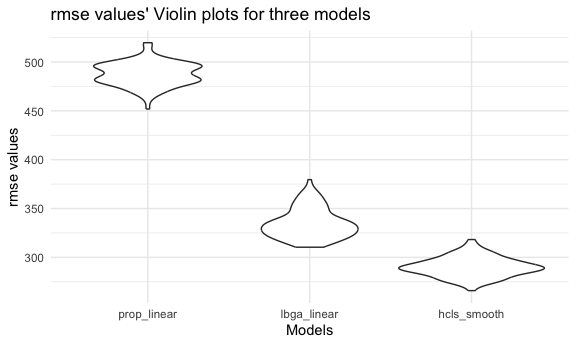
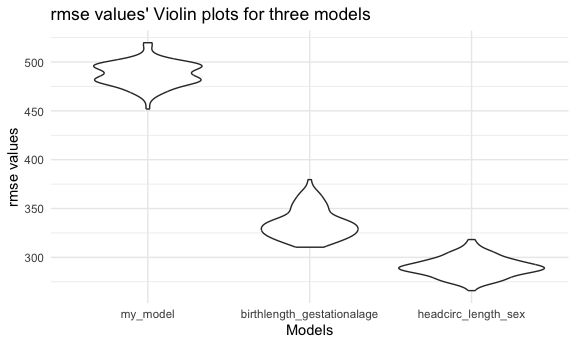
change x label

Changed region(s): [[0.4062, 0.8986, 0.6562, 0.9275], [0.7188, 0.8986, 0.9062, 0.9275], [0.1875, 0.8986, 0.3125, 0.9275]]

diff --git a/p8105_hw6_lz2949.md b/p8105_hw6_lz2949.md
@@ -414,9 +414,9 @@ b_df =
     lbga_mod = map(train, \(df) lm(bwt ~ blength + gaweeks, data = df)),
     hcls_mod = map(train, \(df) lm(bwt ~ bhead + blength + babysex + bhead * blength * babysex, data = df))) |> 
   mutate(
-    rmse_prop_linear = map2_dbl(prop_lm, test, \(mod, df) rmse(model = mod, data = df)),
-    rmse_lbga_linear = map2_dbl(lbga_mod, test, \(mod, df) rmse(model = mod, data = df)),
-    rmse_hcls_smooth = map2_dbl(hcls_mod, test, \(mod, df) rmse(model = mod, data = df)))
+    rmse_my_model = map2_dbl(prop_lm, test, \(mod, df) rmse(model = mod, data = df)),
+    rmse_birthlength_gestationalage = map2_dbl(lbga_mod, test, \(mod, df) rmse(model = mod, data = df)),
+    rmse_headcirc_length_sex = map2_dbl(hcls_mod, test, \(mod, df) rmse(model = mod, data = df)))
 ```
 
 ``` r
